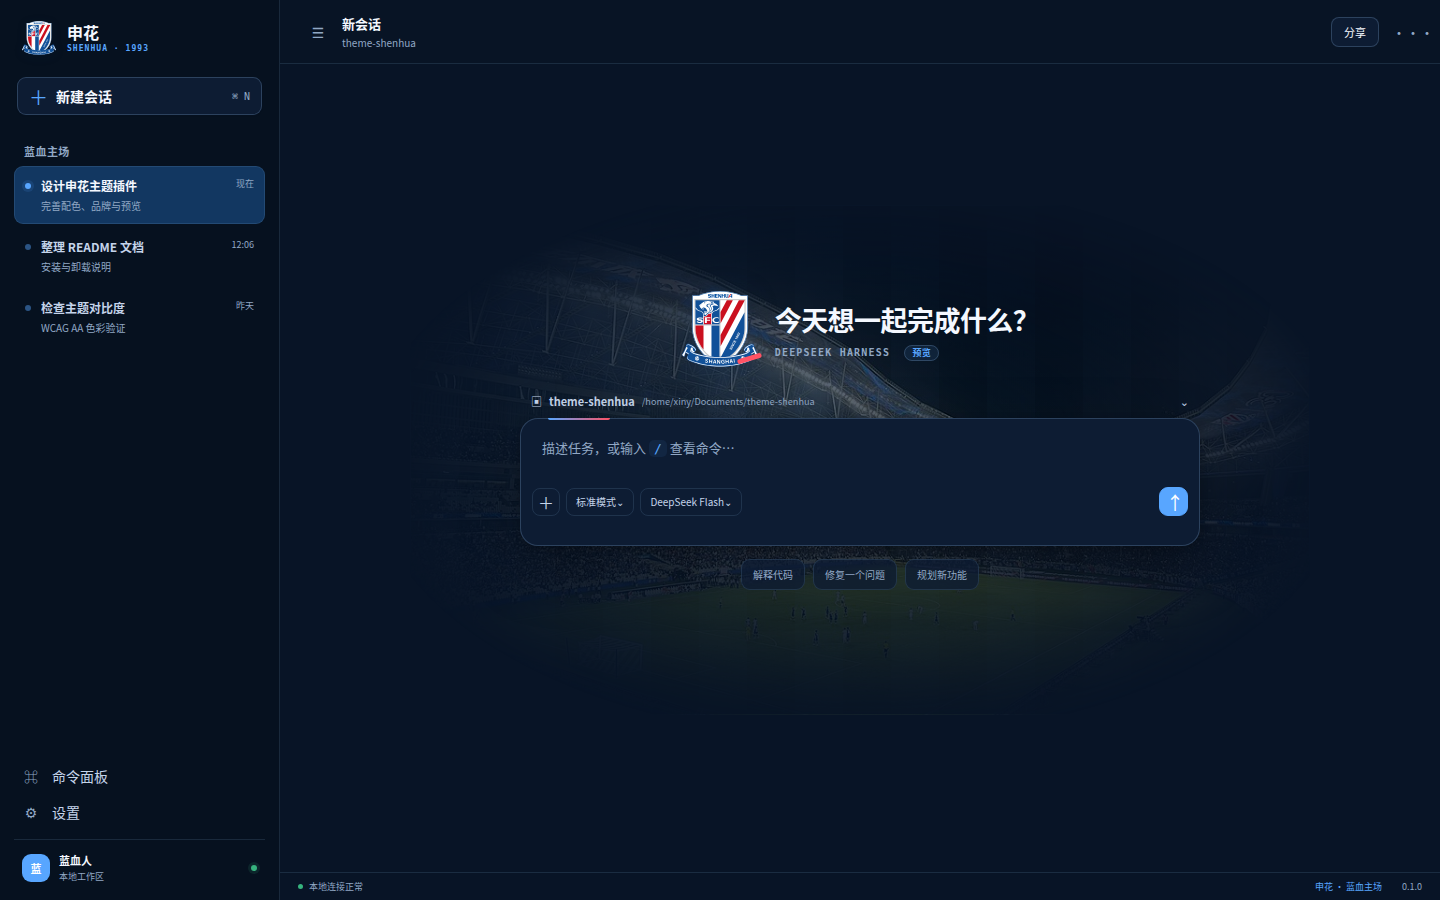
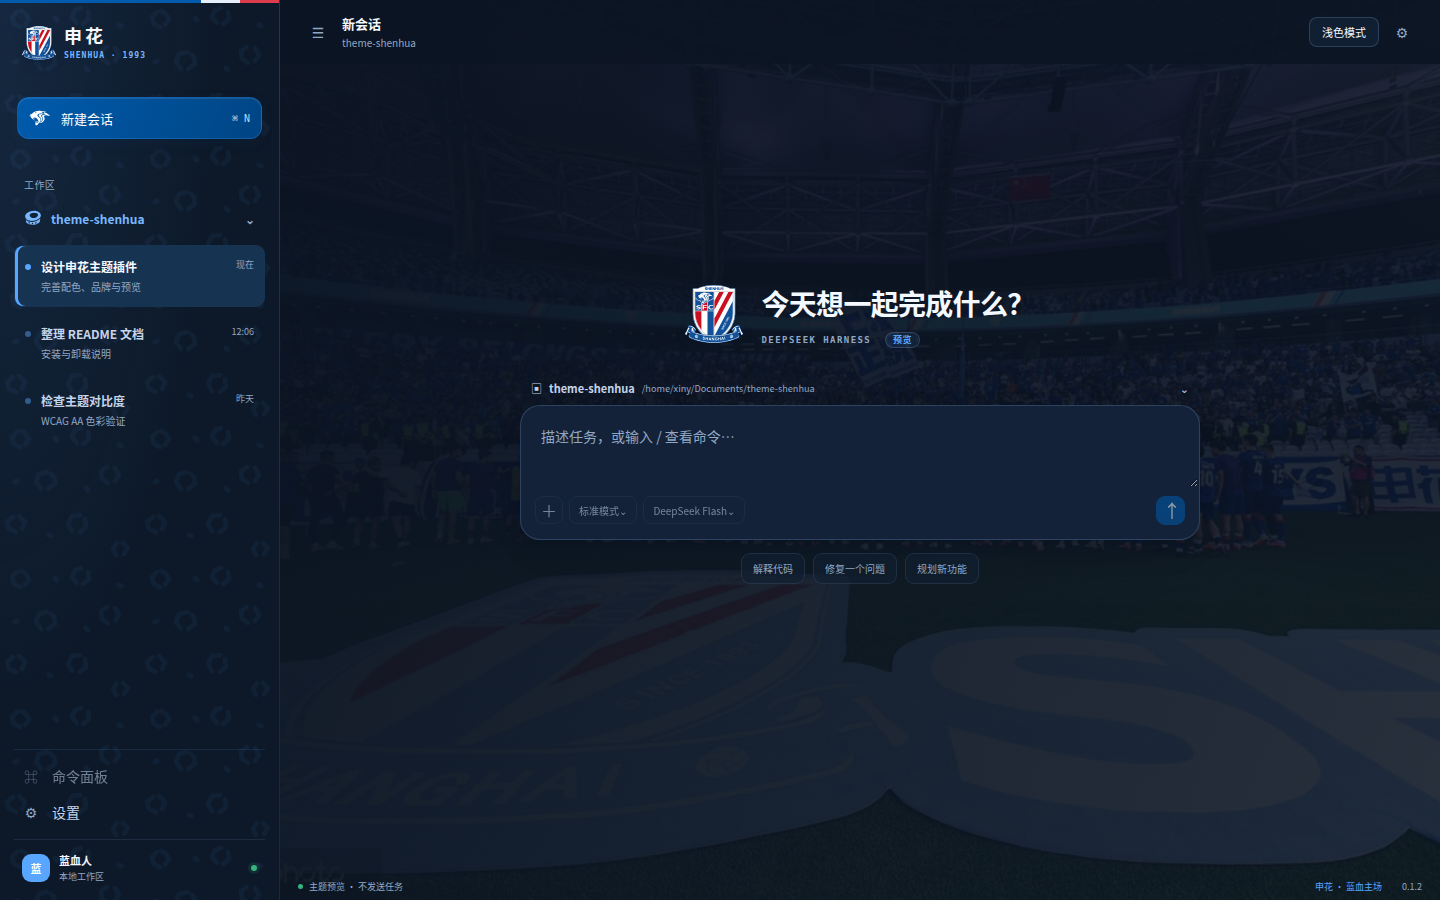
docs: refresh current theme previews

diff --git a/preview/preview.js b/preview/preview.js
@@ -2,6 +2,10 @@
 // Minimal renderer for the theme's stateless brand components. Preview loads
 // the real browser bundle, so tokens, imagery and overrides cannot drift.
 const modeButton = document.querySelector('[data-toggle-mode]');
+fetch('../package.json')
+  .then(response => response.ok ? response.json() : Promise.reject(new Error(`HTTP ${response.status}`)))
+  .then(pkg => { document.querySelector('[data-package-version]').textContent = pkg.version; })
+  .catch(() => {});
 let tokens = {};
 let mode = new URLSearchParams(location.search).get('mode') === 'light' ? 'light' : 'dark';
 function setMode() {

diff --git a/preview/index.html b/preview/index.html
@@ -66,7 +66,7 @@
           <div class="quick-actions"><button>解释代码</button><button>修复一个问题</button><button>规划新功能</button></div>
         </section>
 
-        <footer class="statusbar"><span><i></i> 主题预览 · 不发送任务</span><span>申花 · 蓝血主场</span><span>0.1.0</span></footer>
+        <footer class="statusbar"><span><i></i> 主题预览 · 不发送任务</span><span>申花 · 蓝血主场</span><span data-package-version>0.1.2</span></footer>
       </main>
     </div>
     <script src="./preview.js"></script>

diff --git a/README.md b/README.md
@@ -8,13 +8,13 @@
 
 当前预览直接加载 `lib/client.js`，复用插件的实际配色、品牌组件与侧栏样式。执行 `pnpm build` 后，在项目目录运行 `python3 -m http.server 4176 --bind 127.0.0.1`，打开 `http://127.0.0.1:4176/preview/`；右上角可切换深浅色、打开设置弹窗，左上角可折叠侧栏。预览使用示例会话，快捷操作可填写输入框，新建会话可清空输入；输入框不会发送任务。
 
-以下截图为初版留档，以当前交互预览为准。
+以下截图由 v0.1.2 的实际浏览器 bundle 生成，展示当前图标、背景和响应式布局。
 
 | 主场之夜 | 蓝白看台 |
 | --- | --- |
 | ![主场之夜深色预览](screenshots/shenhua-dark.png) | ![蓝白看台浅色预览](screenshots/shenhua-light.png) |
 
-窄屏折叠状态见 [`screenshots/shenhua-narrow-dark.png`](screenshots/shenhua-narrow-dark.png)。初版主题曾在真实 Harness Web 页面完成加载验证；本轮侧栏与图标调整已在复用浏览器 bundle 的预览中检查。
+窄屏折叠状态见 [`screenshots/shenhua-narrow-dark.png`](screenshots/shenhua-narrow-dark.png)。主题曾在真实 Harness Web 页面完成加载验证；当前侧栏与图标调整已在复用浏览器 bundle 的预览中检查。
 
 ## 安装
 
@@ -34,13 +34,13 @@ dsh --profile web
 ```sh
 pnpm build
 pnpm pack --pack-destination dist
-dsh plugin --profile web add ./dist/dsh-theme-shenhua-0.1.1.tgz
+dsh plugin --profile web add ./dist/dsh-theme-shenhua-0.1.2.tgz
 ```
 
-从 GitHub Release 下载 `dsh-theme-shenhua-0.1.1.tgz` 后，可以直接安装，无需解压：
+从 GitHub Release 下载 `dsh-theme-shenhua-0.1.2.tgz` 后，可以直接安装，无需解压：
 
 ```sh
-dsh plugin --profile web add ./dsh-theme-shenhua-0.1.1.tgz
+dsh plugin --profile web add ./dsh-theme-shenhua-0.1.2.tgz
 dsh --profile web
 ```
 
@@ -57,7 +57,7 @@ dsh plugin --profile web remove dsh-theme-shenhua
 链接式源码安装在重新执行 `pnpm build` 后即可取得最新产物。tarball 安装请先打出新包，再执行：
 
 ```sh
-dsh plugin --profile web update ./dist/dsh-theme-shenhua-0.1.1.tgz
+dsh plugin --profile web update ./dist/dsh-theme-shenhua-0.1.2.tgz
 ```
 
 ## 开发验证

diff --git a/CHANGELOG.md b/CHANGELOG.md
@@ -1,5 +1,11 @@
 # 更新日志
 
+## 0.1.2 - 2026-09-25
+
+- 重新生成深色、浅色和窄屏预览图，使其展示当前豹头新建会话图标、体育场工作区图标与主场背景。
+- 预览页自动读取 `package.json` 版本，避免截图和页面版本号再次过期。
+- README 的预览说明与安装示例更新到当前版本。
+
 ## 0.1.1 - 2026-09-24
 
 - 代码、样式和文档改以 MPL-2.0 提供，分发受覆盖文件的修改时需按协议提供对应源码。
